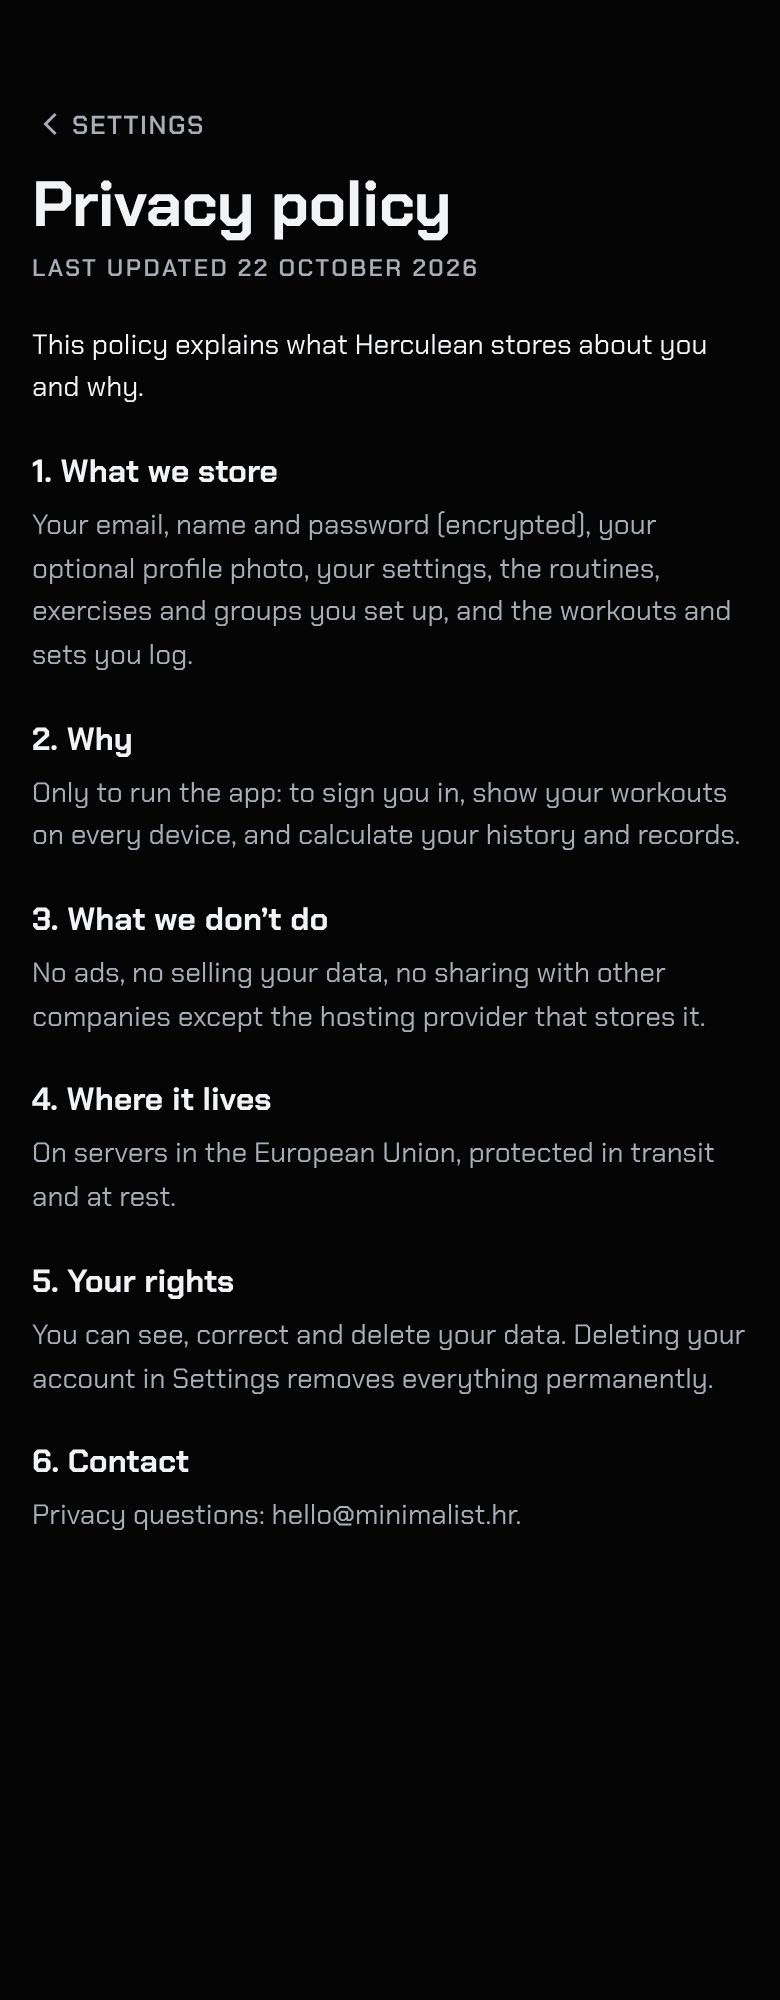
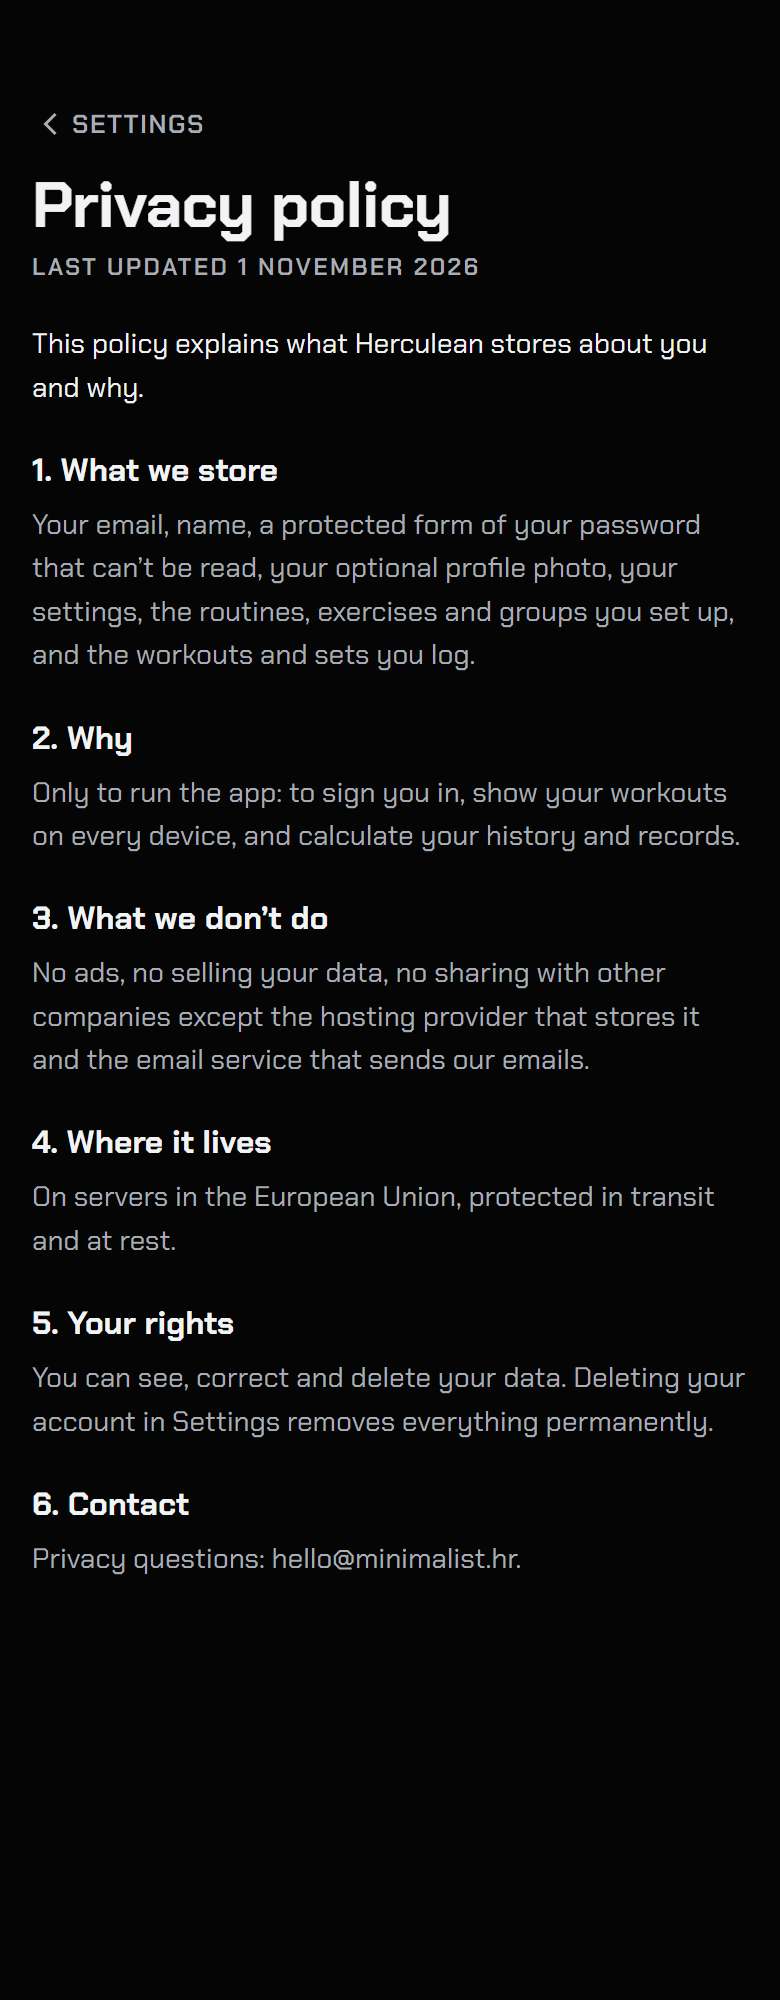
feat: add terms of service and privacy policy screens

diff --git a/docs/design/source/H21-Settings-Privacy.dc.html b/docs/design/source/H21-Settings-Privacy.dc.html
@@ -23,10 +23,10 @@ button{font-family:inherit}
 Settings
 </a>
 <h1 style="margin: 0; font-size: 32px; line-height: 1.05; font-weight: 700; letter-spacing: -0.01em">Privacy policy</h1>
-<p style="margin: 4px 0 0; font-size: 12px; font-weight: 600; letter-spacing: 0.1em; text-transform: uppercase; color: {{c.muted}}">Last updated 22 October 2026</p>
+<p style="margin: 4px 0 0; font-size: 12px; font-weight: 600; letter-spacing: 0.1em; text-transform: uppercase; color: {{c.muted}}">Last updated 1 November 2026</p>
 </div>
 <p style="margin: 0; font-size: 14px; line-height: 1.55">This policy explains what Herculean stores about you and why.</p>
-<section style="display: flex; flex-direction: column; gap: 6px"><h2 style="margin: 0; font-size: 16px; font-weight: 700">1. What we store</h2><p style="margin: 0; font-size: 14px; line-height: 1.55; color: {{c.muted}}">Your email, name and password (encrypted), your optional profile photo, your settings, the routines, exercises and groups you set up, and the workouts and sets you log.</p></section><section style="display: flex; flex-direction: column; gap: 6px"><h2 style="margin: 0; font-size: 16px; font-weight: 700">2. Why</h2><p style="margin: 0; font-size: 14px; line-height: 1.55; color: {{c.muted}}">Only to run the app: to sign you in, show your workouts on every device, and calculate your history and records.</p></section><section style="display: flex; flex-direction: column; gap: 6px"><h2 style="margin: 0; font-size: 16px; font-weight: 700">3. What we don’t do</h2><p style="margin: 0; font-size: 14px; line-height: 1.55; color: {{c.muted}}">No ads, no selling your data, no sharing with other companies except the hosting provider that stores it.</p></section><section style="display: flex; flex-direction: column; gap: 6px"><h2 style="margin: 0; font-size: 16px; font-weight: 700">4. Where it lives</h2><p style="margin: 0; font-size: 14px; line-height: 1.55; color: {{c.muted}}">On servers in the European Union, protected in transit and at rest.</p></section><section style="display: flex; flex-direction: column; gap: 6px"><h2 style="margin: 0; font-size: 16px; font-weight: 700">5. Your rights</h2><p style="margin: 0; font-size: 14px; line-height: 1.55; color: {{c.muted}}">You can see, correct and delete your data. Deleting your account in Settings removes everything permanently.</p></section><section style="display: flex; flex-direction: column; gap: 6px"><h2 style="margin: 0; font-size: 16px; font-weight: 700">6. Contact</h2><p style="margin: 0; font-size: 14px; line-height: 1.55; color: {{c.muted}}">Privacy questions: hello@minimalist.hr.</p></section>
+<section style="display: flex; flex-direction: column; gap: 6px"><h2 style="margin: 0; font-size: 16px; font-weight: 700">1. What we store</h2><p style="margin: 0; font-size: 14px; line-height: 1.55; color: {{c.muted}}">Your email, name, a protected form of your password that can’t be read, your optional profile photo, your settings, the routines, exercises and groups you set up, and the workouts and sets you log.</p></section><section style="display: flex; flex-direction: column; gap: 6px"><h2 style="margin: 0; font-size: 16px; font-weight: 700">2. Why</h2><p style="margin: 0; font-size: 14px; line-height: 1.55; color: {{c.muted}}">Only to run the app: to sign you in, show your workouts on every device, and calculate your history and records.</p></section><section style="display: flex; flex-direction: column; gap: 6px"><h2 style="margin: 0; font-size: 16px; font-weight: 700">3. What we don’t do</h2><p style="margin: 0; font-size: 14px; line-height: 1.55; color: {{c.muted}}">No ads, no selling your data, no sharing with other companies except the hosting provider that stores it and the email service that sends our emails.</p></section><section style="display: flex; flex-direction: column; gap: 6px"><h2 style="margin: 0; font-size: 16px; font-weight: 700">4. Where it lives</h2><p style="margin: 0; font-size: 14px; line-height: 1.55; color: {{c.muted}}">On servers in the European Union, protected in transit and at rest.</p></section><section style="display: flex; flex-direction: column; gap: 6px"><h2 style="margin: 0; font-size: 16px; font-weight: 700">5. Your rights</h2><p style="margin: 0; font-size: 14px; line-height: 1.55; color: {{c.muted}}">You can see, correct and delete your data. Deleting your account in Settings removes everything permanently.</p></section><section style="display: flex; flex-direction: column; gap: 6px"><h2 style="margin: 0; font-size: 16px; font-weight: 700">6. Contact</h2><p style="margin: 0; font-size: 14px; line-height: 1.55; color: {{c.muted}}">Privacy questions: hello@minimalist.hr.</p></section>
 </main>
 </div>
 </x-dc>

diff --git a/docs/design/html/H21-Settings-Privacy.html b/docs/design/html/H21-Settings-Privacy.html
@@ -21,10 +21,10 @@ button{font-family:inherit}
 Settings
 </a>
 <h1 style="margin: 0; font-size: 32px; line-height: 1.05; font-weight: 700; letter-spacing: -0.01em">Privacy policy</h1>
-<p style="margin: 4px 0 0; font-size: 12px; font-weight: 600; letter-spacing: 0.1em; text-transform: uppercase; color: #A9AEB6">Last updated 22 October 2026</p>
+<p style="margin: 4px 0 0; font-size: 12px; font-weight: 600; letter-spacing: 0.1em; text-transform: uppercase; color: #A9AEB6">Last updated 1 November 2026</p>
 </div>
 <p style="margin: 0; font-size: 14px; line-height: 1.55">This policy explains what Herculean stores about you and why.</p>
-<section style="display: flex; flex-direction: column; gap: 6px"><h2 style="margin: 0; font-size: 16px; font-weight: 700">1. What we store</h2><p style="margin: 0; font-size: 14px; line-height: 1.55; color: #A9AEB6">Your email, name and password (encrypted), your optional profile photo, your settings, the routines, exercises and groups you set up, and the workouts and sets you log.</p></section><section style="display: flex; flex-direction: column; gap: 6px"><h2 style="margin: 0; font-size: 16px; font-weight: 700">2. Why</h2><p style="margin: 0; font-size: 14px; line-height: 1.55; color: #A9AEB6">Only to run the app: to sign you in, show your workouts on every device, and calculate your history and records.</p></section><section style="display: flex; flex-direction: column; gap: 6px"><h2 style="margin: 0; font-size: 16px; font-weight: 700">3. What we don’t do</h2><p style="margin: 0; font-size: 14px; line-height: 1.55; color: #A9AEB6">No ads, no selling your data, no sharing with other companies except the hosting provider that stores it.</p></section><section style="display: flex; flex-direction: column; gap: 6px"><h2 style="margin: 0; font-size: 16px; font-weight: 700">4. Where it lives</h2><p style="margin: 0; font-size: 14px; line-height: 1.55; color: #A9AEB6">On servers in the European Union, protected in transit and at rest.</p></section><section style="display: flex; flex-direction: column; gap: 6px"><h2 style="margin: 0; font-size: 16px; font-weight: 700">5. Your rights</h2><p style="margin: 0; font-size: 14px; line-height: 1.55; color: #A9AEB6">You can see, correct and delete your data. Deleting your account in Settings removes everything permanently.</p></section><section style="display: flex; flex-direction: column; gap: 6px"><h2 style="margin: 0; font-size: 16px; font-weight: 700">6. Contact</h2><p style="margin: 0; font-size: 14px; line-height: 1.55; color: #A9AEB6">Privacy questions: hello@minimalist.hr.</p></section>
+<section style="display: flex; flex-direction: column; gap: 6px"><h2 style="margin: 0; font-size: 16px; font-weight: 700">1. What we store</h2><p style="margin: 0; font-size: 14px; line-height: 1.55; color: #A9AEB6">Your email, name, a protected form of your password that can’t be read, your optional profile photo, your settings, the routines, exercises and groups you set up, and the workouts and sets you log.</p></section><section style="display: flex; flex-direction: column; gap: 6px"><h2 style="margin: 0; font-size: 16px; font-weight: 700">2. Why</h2><p style="margin: 0; font-size: 14px; line-height: 1.55; color: #A9AEB6">Only to run the app: to sign you in, show your workouts on every device, and calculate your history and records.</p></section><section style="display: flex; flex-direction: column; gap: 6px"><h2 style="margin: 0; font-size: 16px; font-weight: 700">3. What we don’t do</h2><p style="margin: 0; font-size: 14px; line-height: 1.55; color: #A9AEB6">No ads, no selling your data, no sharing with other companies except the hosting provider that stores it and the email service that sends our emails.</p></section><section style="display: flex; flex-direction: column; gap: 6px"><h2 style="margin: 0; font-size: 16px; font-weight: 700">4. Where it lives</h2><p style="margin: 0; font-size: 14px; line-height: 1.55; color: #A9AEB6">On servers in the European Union, protected in transit and at rest.</p></section><section style="display: flex; flex-direction: column; gap: 6px"><h2 style="margin: 0; font-size: 16px; font-weight: 700">5. Your rights</h2><p style="margin: 0; font-size: 14px; line-height: 1.55; color: #A9AEB6">You can see, correct and delete your data. Deleting your account in Settings removes everything permanently.</p></section><section style="display: flex; flex-direction: column; gap: 6px"><h2 style="margin: 0; font-size: 16px; font-weight: 700">6. Contact</h2><p style="margin: 0; font-size: 14px; line-height: 1.55; color: #A9AEB6">Privacy questions: hello@minimalist.hr.</p></section>
 </main>
 </div>
 

diff --git a/app/src/features/account/legal-documents.ts b/app/src/features/account/legal-documents.ts
@@ -1,0 +1,71 @@
+export interface LegalDocument {
+  title: string;
+  lastUpdated: string;
+  intro: string;
+  sections: readonly { title: string; body: string }[];
+}
+
+export const termsOfService: LegalDocument = {
+  title: 'Terms of service',
+  lastUpdated: 'Last updated 22 October 2026',
+  intro:
+    'These terms cover your use of Herculean, a workout log made by Minimalist.',
+  sections: [
+    {
+      title: '1. Your account',
+      body: 'You need an account to use Herculean. Keep your password private. You’re responsible for what happens in your account.',
+    },
+    {
+      title: '2. Using the app',
+      body: 'Herculean helps you plan and log workouts. It doesn’t give medical advice. Check with a doctor before starting a new training program.',
+    },
+    {
+      title: '3. Your content',
+      body: 'The routines, exercises and workouts you log are yours. We only use them to run the app for you.',
+    },
+    {
+      title: '4. Changes',
+      body: 'We may update the app and these terms. If a change matters, we’ll tell you in the app before it applies.',
+    },
+    {
+      title: '5. Ending',
+      body: 'You can delete your account at any time in Settings. We can close accounts that break these terms.',
+    },
+    {
+      title: '6. Contact',
+      body: 'Questions about these terms: hello@minimalist.hr.',
+    },
+  ],
+};
+
+export const privacyPolicy: LegalDocument = {
+  title: 'Privacy policy',
+  lastUpdated: 'Last updated 1 November 2026',
+  intro: 'This policy explains what Herculean stores about you and why.',
+  sections: [
+    {
+      title: '1. What we store',
+      body: 'Your email, name, a protected form of your password that can’t be read, your optional profile photo, your settings, the routines, exercises and groups you set up, and the workouts and sets you log.',
+    },
+    {
+      title: '2. Why',
+      body: 'Only to run the app: to sign you in, show your workouts on every device, and calculate your history and records.',
+    },
+    {
+      title: '3. What we don’t do',
+      body: 'No ads, no selling your data, no sharing with other companies except the hosting provider that stores it and the email service that sends our emails.',
+    },
+    {
+      title: '4. Where it lives',
+      body: 'On servers in the European Union, protected in transit and at rest.',
+    },
+    {
+      title: '5. Your rights',
+      body: 'You can see, correct and delete your data. Deleting your account in Settings removes everything permanently.',
+    },
+    {
+      title: '6. Contact',
+      body: 'Privacy questions: hello@minimalist.hr.',
+    },
+  ],
+};

diff --git a/app/src/features/account/create-account-screen.test.tsx b/app/src/features/account/create-account-screen.test.tsx
@@ -7,6 +7,8 @@ import { PlaceholderScreen } from '@/components/placeholder-screen';
 import { ThemeProvider } from '@/theme/theme-provider';
 
 import { CreateAccountScreen } from './create-account-screen';
+import { privacyPolicy, termsOfService } from './legal-documents';
+import { LegalScreen } from './legal-screen';
 import { endSession, getAccessToken, useSessionStatus } from './session';
 
 const mockFetch = jest.fn<Promise<Response>, [Request]>();
@@ -65,9 +67,8 @@ async function renderCreateAccount() {
       _layout: Layout,
       'create-account': CreateAccountScreen,
       setup: () => <PlaceholderScreen title="Setup screen" />,
-      terms: () => (
-        <PlaceholderScreen title="Terms screen" back="Create account" />
-      ),
+      terms: () => <LegalScreen document={termsOfService} />,
+      privacy: () => <LegalScreen document={privacyPolicy} />,
     },
     { initialUrl: '/create-account' },
   );
@@ -179,15 +180,27 @@ test('while waiting, the button says so and Sign in is dimmed', async () => {
   expect(screen.getByRole('link', { name: 'Sign in' })).toBeDisabled();
 });
 
-test('the terms open and their back link returns to create account', async () => {
-  await renderCreateAccount();
+test.each([
+  ['Terms of service', '1. Your account'],
+  ['Privacy policy', '1. What we store'],
+])(
+  '%s opens and its back link returns to the form as it was',
+  async (link, firstSection) => {
+    await renderCreateAccount();
+    await fireEvent.changeText(
+      screen.getByLabelText('Email'),
+      'filip@example.com',
+    );
 
-  await fireEvent.press(screen.getByRole('link', { name: 'Terms of service' }));
-  expect(await screen.findByText('Terms screen')).toBeOnTheScreen();
+    await fireEvent.press(screen.getByRole('link', { name: link }));
+    expect(await screen.findByText(firstSection)).toBeOnTheScreen();
 
-  await fireEvent.press(screen.getByRole('link', { name: 'Create account' }));
-  expect(await screen.findByLabelText('Email')).toBeOnTheScreen();
-});
+    await fireEvent.press(screen.getByRole('link', { name: 'Create account' }));
+    expect(await screen.findByLabelText('Email')).toHaveDisplayValue(
+      'filip@example.com',
+    );
+  },
+);
 
 test('Go on the last field creates the account', async () => {
   mockFetch.mockResolvedValue(Response.json(tokens, { status: 201 }));

diff --git a/app/src/features/account/legal-screen.tsx b/app/src/features/account/legal-screen.tsx
@@ -1,0 +1,65 @@
+import { useRouter } from 'expo-router';
+import { ScrollView, StyleSheet, Text, View } from 'react-native';
+import { useSafeAreaInsets } from 'react-native-safe-area-context';
+
+import { BackLink } from '@/components/back-link';
+import { useTheme } from '@/theme/theme-provider';
+
+import type { LegalDocument } from './legal-documents';
+
+/** A legal document as full-page text. Only create account opens these pages so far. */
+export function LegalScreen({ document }: { document: LegalDocument }) {
+  const { colors, size, space, text } = useTheme();
+  const router = useRouter();
+  const insets = useSafeAreaInsets();
+
+  return (
+    <ScrollView
+      style={[styles.screen, { backgroundColor: colors.bg }]}
+      contentContainerStyle={{
+        gap: space.xl,
+        paddingTop: size.topPaddingSubPage,
+        paddingHorizontal: size.sidePadding,
+        paddingBottom: insets.bottom + space.xl,
+      }}
+    >
+      <View style={{ gap: space.xs }}>
+        <BackLink
+          label="Create account"
+          onPress={() => {
+            router.back();
+          }}
+        />
+        <Text
+          accessibilityRole="header"
+          style={[text.pageTitle, { color: colors.text }]}
+        >
+          {document.title}
+        </Text>
+        <Text style={text.eyebrow}>{document.lastUpdated}</Text>
+      </View>
+
+      <Text style={[text.body, { color: colors.text }]}>{document.intro}</Text>
+
+      {document.sections.map((section) => (
+        <View key={section.title} style={{ gap: space.xs }}>
+          <Text
+            accessibilityRole="header"
+            style={[text.listItemName, { color: colors.text }]}
+          >
+            {section.title}
+          </Text>
+          <Text style={[text.body, { color: colors.muted }]}>
+            {section.body}
+          </Text>
+        </View>
+      ))}
+    </ScrollView>
+  );
+}
+
+const styles = StyleSheet.create({
+  screen: {
+    flex: 1,
+  },
+});

diff --git a/app/src/features/account/legal-screen.test.tsx b/app/src/features/account/legal-screen.test.tsx
@@ -1,0 +1,41 @@
+import { screen } from '@testing-library/react-native';
+import { Stack } from 'expo-router';
+import { renderRouter } from 'expo-router/testing-library';
+
+import { ThemeProvider } from '@/theme/theme-provider';
+
+import { privacyPolicy, termsOfService } from './legal-documents';
+import { LegalScreen } from './legal-screen';
+
+function Layout() {
+  return (
+    <ThemeProvider theme="dark">
+      <Stack screenOptions={{ headerShown: false }} />
+    </ThemeProvider>
+  );
+}
+
+test.each([termsOfService, privacyPolicy])(
+  '$title shows everything in the document',
+  async (legalDocument) => {
+    await renderRouter(
+      {
+        _layout: Layout,
+        index: () => <LegalScreen document={legalDocument} />,
+      },
+      { initialUrl: '/' },
+    );
+
+    expect(
+      screen.getByRole('header', { name: legalDocument.title }),
+    ).toBeOnTheScreen();
+    expect(screen.getByText(legalDocument.lastUpdated)).toBeOnTheScreen();
+    expect(screen.getByText(legalDocument.intro)).toBeOnTheScreen();
+    for (const section of legalDocument.sections) {
+      expect(
+        screen.getByRole('header', { name: section.title }),
+      ).toBeOnTheScreen();
+      expect(screen.getByText(section.body)).toBeOnTheScreen();
+    }
+  },
+);

diff --git a/app/src/app/terms.tsx b/app/src/app/terms.tsx
@@ -1,6 +1,6 @@
-import { PlaceholderScreen } from '@/components/placeholder-screen';
+import { termsOfService } from '@/features/account/legal-documents';
+import { LegalScreen } from '@/features/account/legal-screen';
 
-// Built in feature 1, Account: terms and privacy.
 export default function TermsRoute() {
-  return <PlaceholderScreen title="Terms of service" back="Create account" />;
+  return <LegalScreen document={termsOfService} />;
 }

diff --git a/app/src/app/privacy.tsx b/app/src/app/privacy.tsx
@@ -1,6 +1,6 @@
-import { PlaceholderScreen } from '@/components/placeholder-screen';
+import { privacyPolicy } from '@/features/account/legal-documents';
+import { LegalScreen } from '@/features/account/legal-screen';
 
-// Built in feature 1, Account: terms and privacy.
 export default function PrivacyRoute() {
-  return <PlaceholderScreen title="Privacy policy" back="Create account" />;
+  return <LegalScreen document={privacyPolicy} />;
 }

diff --git a/docs/design/design-document.md b/docs/design/design-document.md
@@ -1,6 +1,8 @@
 # Herculean: design document
 
-Version 0.7 · 1 November 2026 · Minimalist
+Version 0.8 · 1 November 2026 · Minimalist
+
+> Changes since 0.7: the wording of H20 and H21 is final. H21 now says passwords are stored in a protected form that can't be read, and names the email service.
 
 > Changes since 0.6: a success line for forms (section 5). A11 waits a minute before Send link again can be pressed, and says "Link sent again." A01 says "Password changed. Sign in with the new one." after a reset (sections 7 and 9). A11 and A13 use the type scale: `meta` for A11's card text and `body` for A13's text.
 
@@ -323,7 +325,7 @@ Nothing else asks "Are you sure?". Discard workout happens right away.
 |---|---|---|
 | **H1 Today states** | H07 Loading, H01 Home, H02 In progress, H03 Completed, H06 Skipped, H04 Rest day, H05 No routines | A greeting and "Home" with the FM avatar, plus one card for today. H01: scheduled routine → Start workout. H02: progress and time → Resume workout, with the Resume bar. H03: Completed today (green), Up next, and View workout. H06: Skipped today (orange), Up next, and Undo skip. H04: Rest day, Up next, and Other routine. H05: Create routine. |
 | **H2 Settings** | H10 Settings, H11 Profile photo, H12 Theme, H13 Color, H14 Units, H15 Default rest time, H16 Name, H17 Email, H18 Change password, H19 Delete account | H10 sections: profile (photo, name); Appearance (Theme, Color); Workout (Units, Default rest time); Account (Name, Email, Password); About (Terms of service, Privacy policy, Version 0.1); then Sign out and Delete account. Each row opens its own sheet. The theme options are Match my phone (default), Dark and Light. The colors are Racing blue and Titanium. The units are Metric (kg, cm) and Imperial (lb, in). |
-| **H3 About and legal** | H20 Terms of service, H21 Privacy policy | Full-page text with "Last updated" and numbered sections. These open from H10, or from A20 with the back link reading "Create account". The final wording comes from a lawyer before release. |
+| **H3 About and legal** | H20 Terms of service, H21 Privacy policy | Full-page text with "Last updated" and numbered sections. These open from H10, or from A20 with the back link reading "Create account". |
 
 ### W · Workout
 

diff --git a/docs/wiki/development/conventions.md b/docs/wiki/development/conventions.md
@@ -11,6 +11,7 @@ title: Conventions
 - Design issues are GitLab issues with the `design` label.
 - Screens are named by ID, for example W10.
 - Each fact is written once, in one place, and linked from elsewhere.
+- H20 and H21 stay true: a change to what the app stores, who receives it or where it lives updates them in the same MR, with a new "Last updated" date.
 
 ## Vocabulary
 
